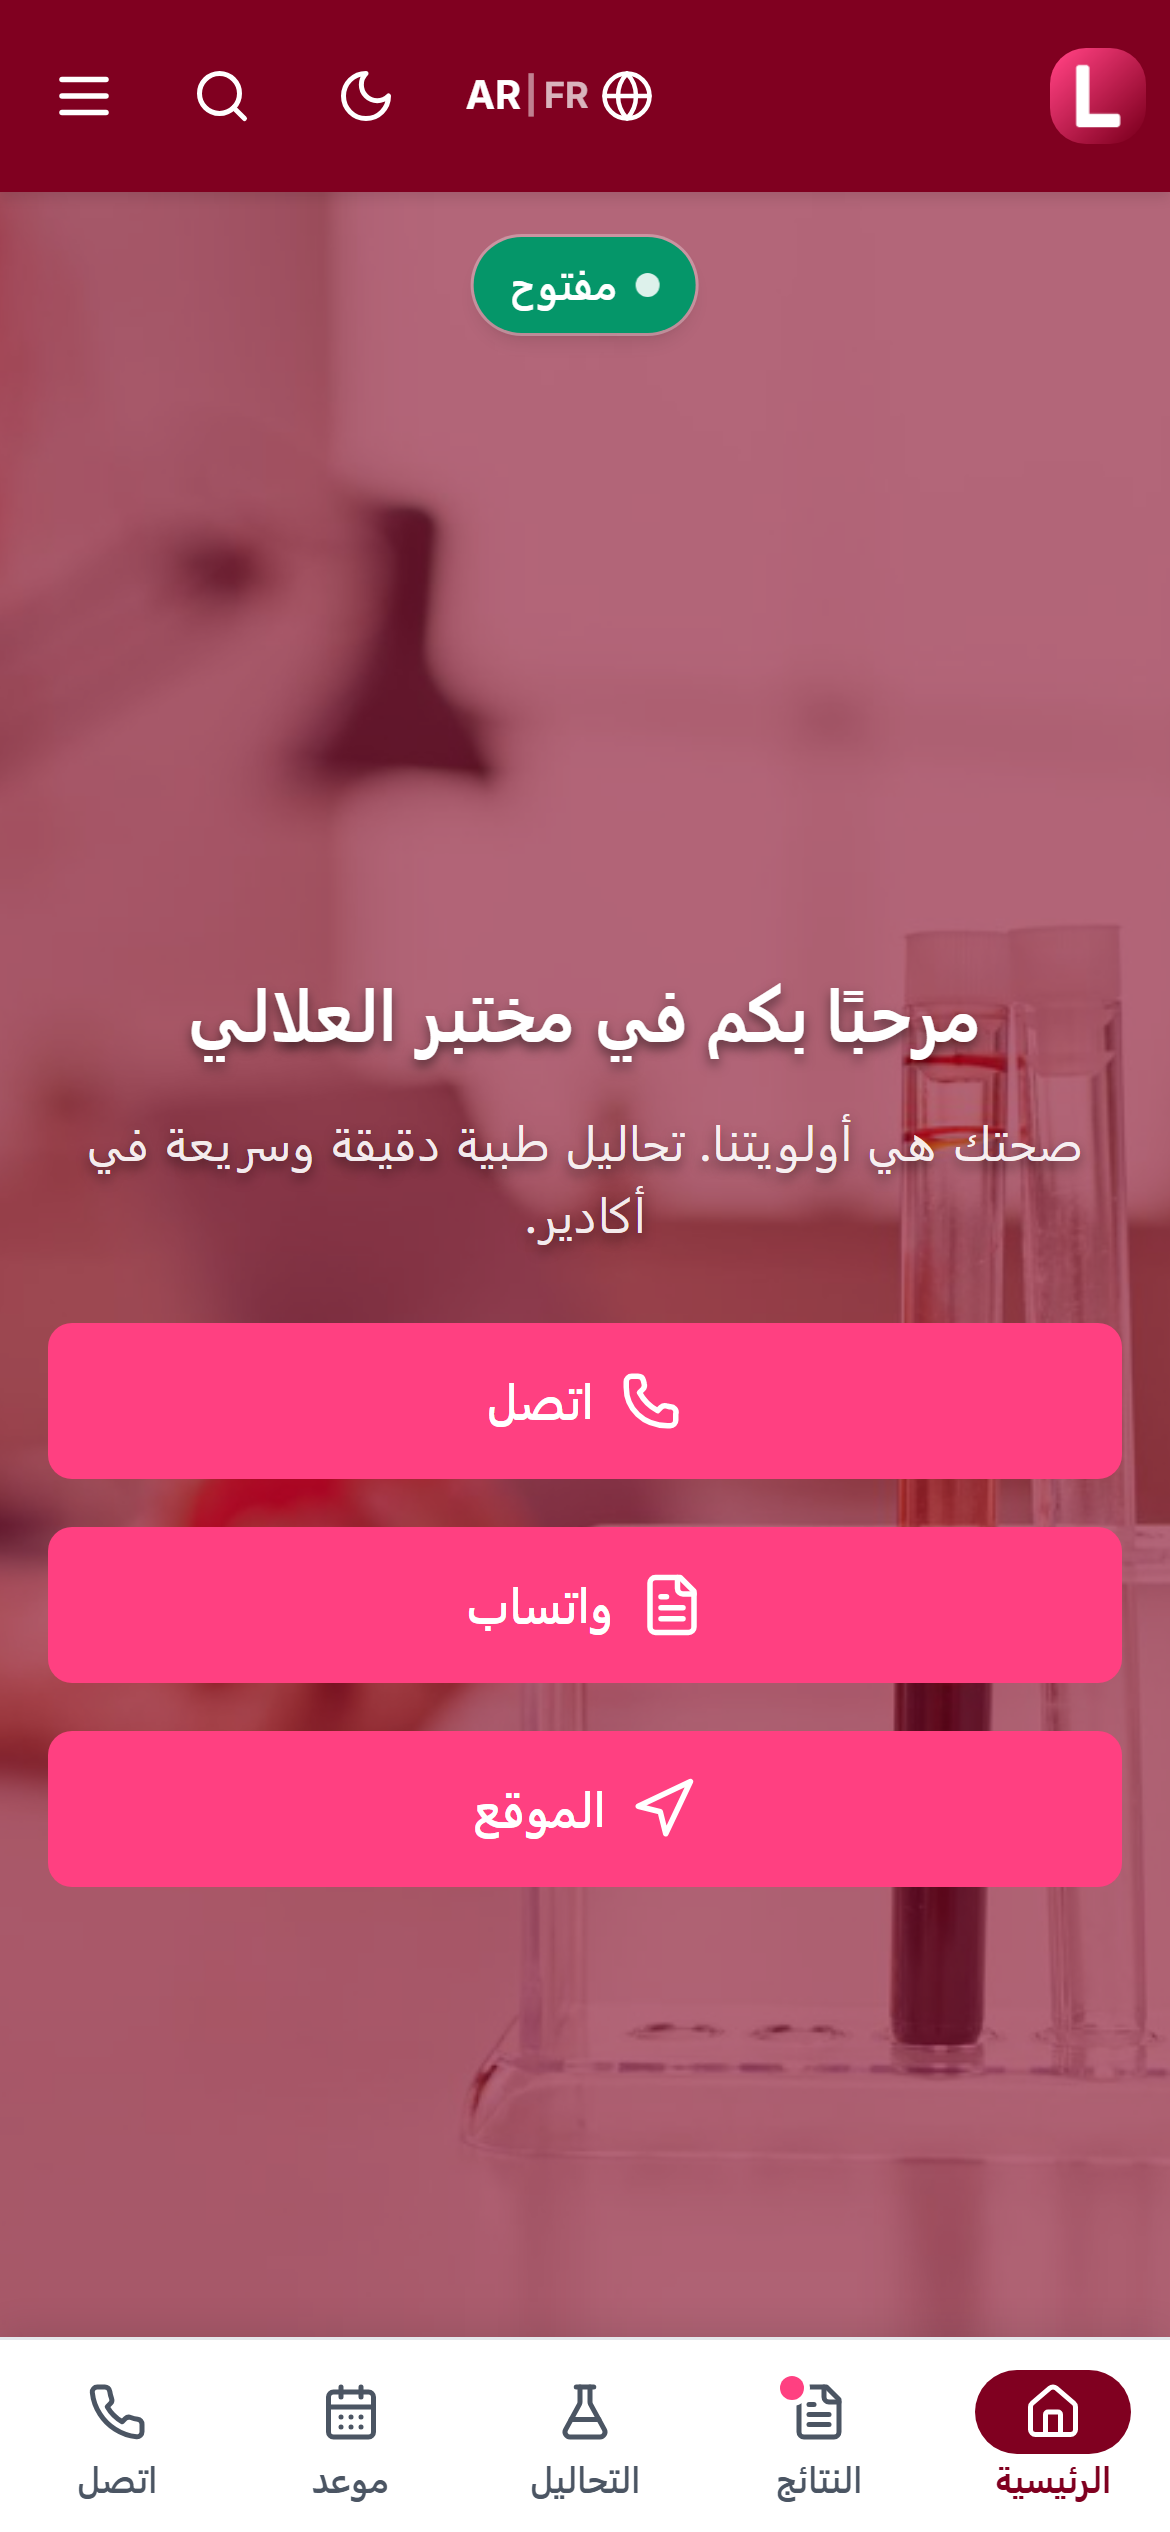
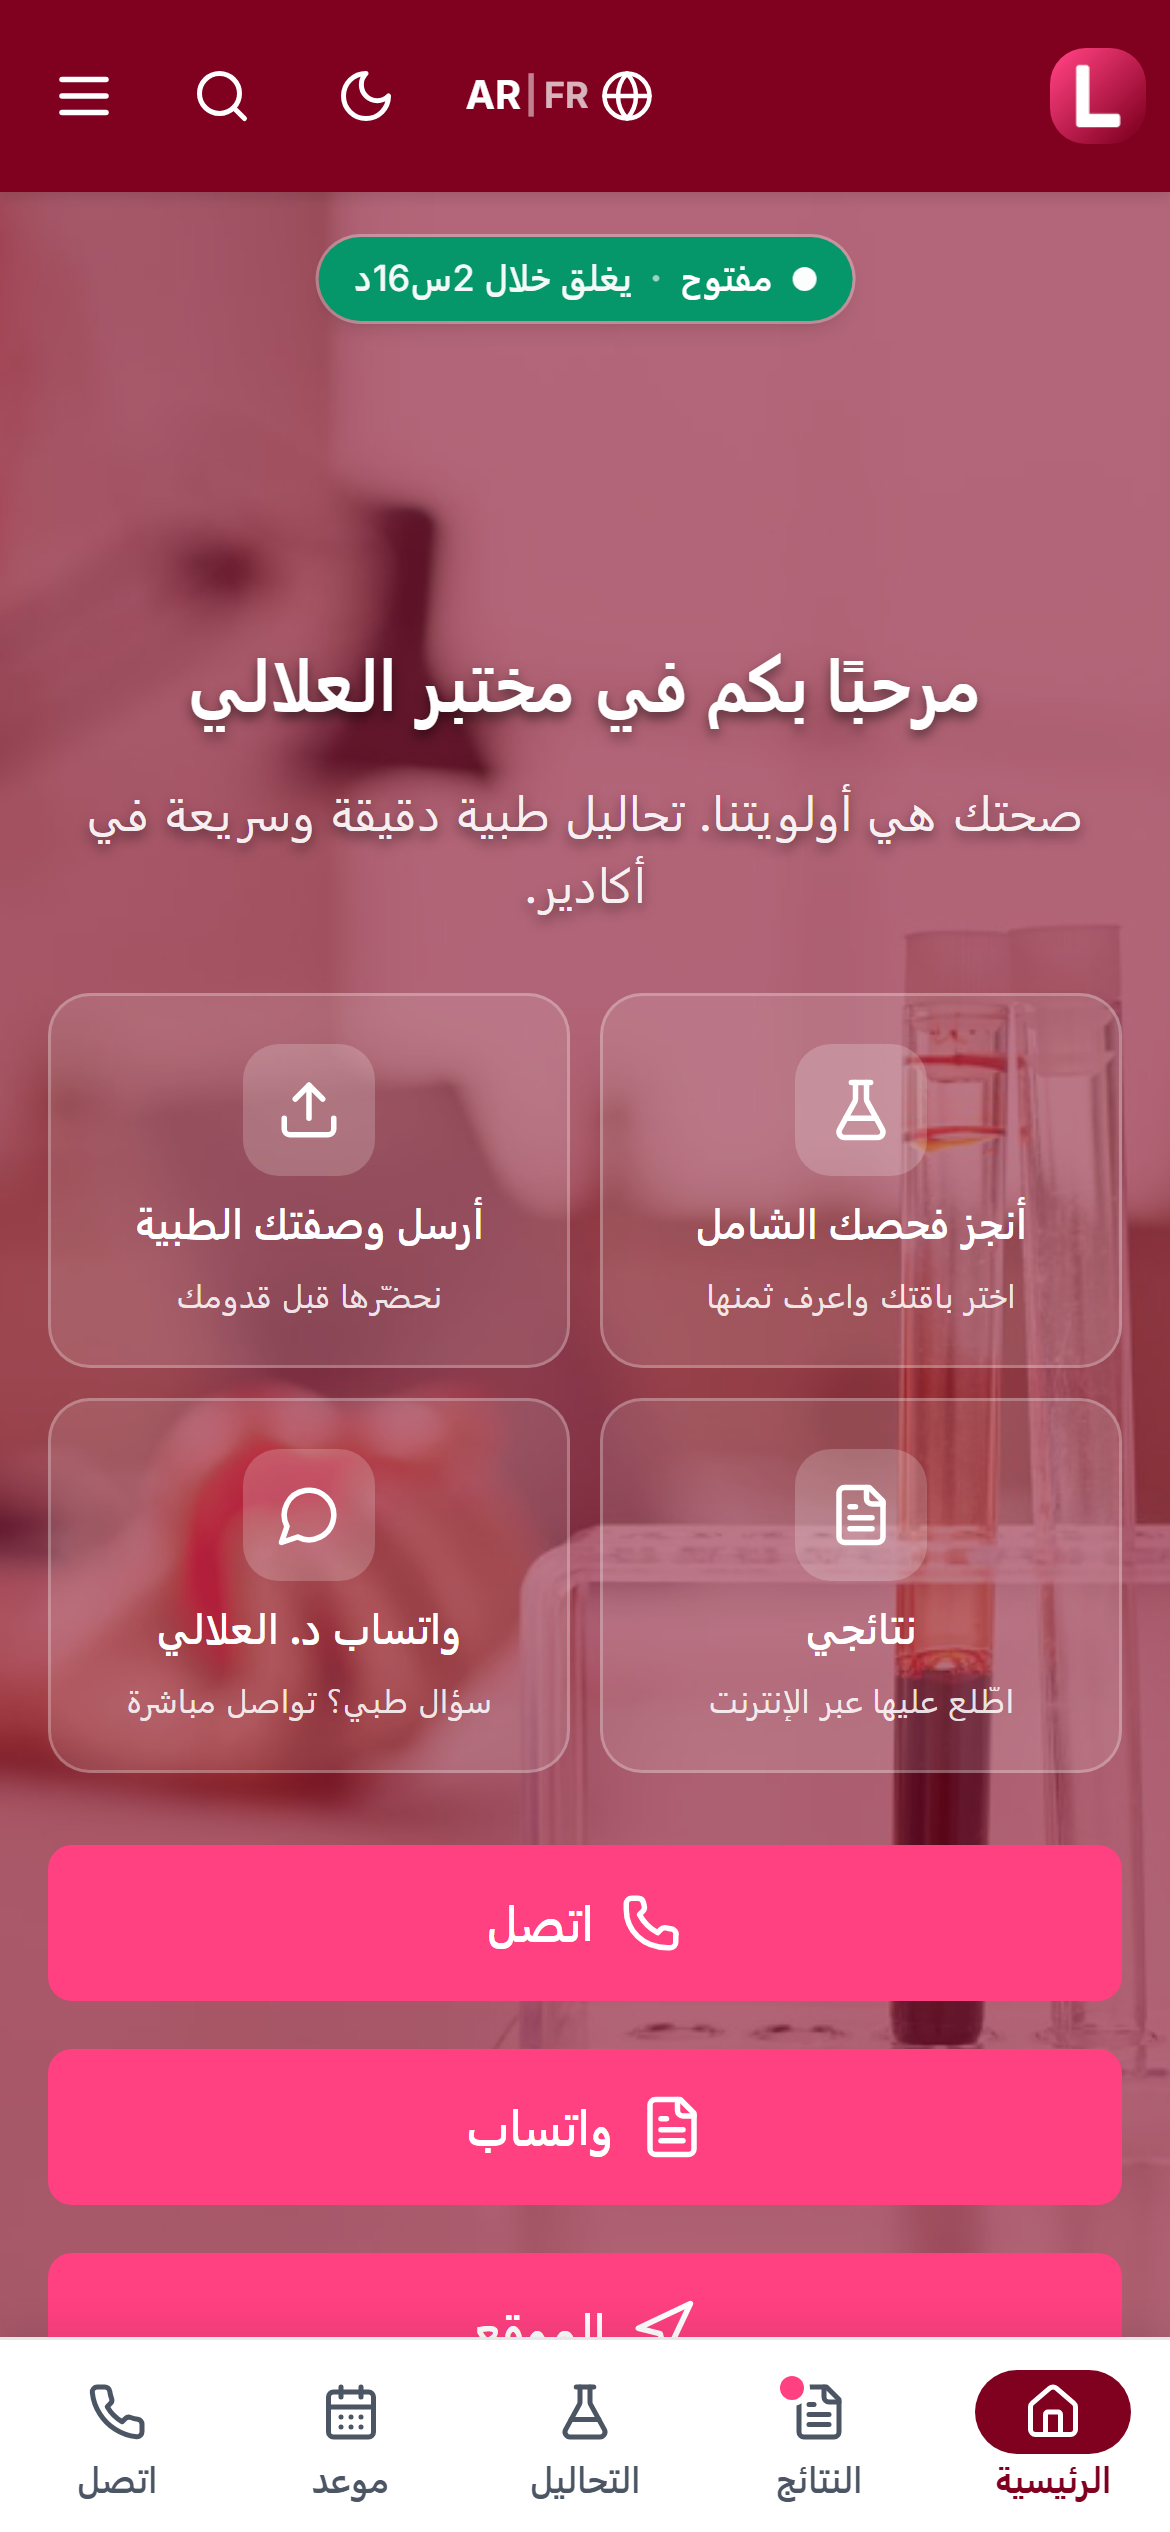
chore(marketing): rafraichir les captures de l'app dans les visuels
L'accueil a change le 26/08 (pastille avec compte a rebours, raccourcis dans
le hero, invite Google) : les captures du 18/08 montraient une app perimee
dans le visuel "Vos resultats sur votre telephone".

- capture-app.js pre-remplit googleSignInPromptDismissedAt et
  iosInstallBannerDismissed dans localStorage, sinon l'invite Google recouvre
  le bas de la capture.
- Captures fr et ar regenerees depuis la production.

diff --git a/marketing/scripts/capture-app.js b/marketing/scripts/capture-app.js
@@ -16,6 +16,16 @@ const OUT = path.resolve(__dirname, "..", "assets", "screenshots");
     isMobile: true,
     hasTouch: true,
   });
+  // Les sollicitations (invite Google, bannière d'installation iOS) se rappellent
+  // d'avoir été fermées via localStorage : on pré-remplit ces clés pour qu'elles
+  // ne recouvrent pas la capture. Voir src/components/features/auth/GoogleSignInPrompt.tsx
+  await page.addInitScript(() => {
+    try {
+      localStorage.setItem("googleSignInPromptDismissedAt", String(Date.now()));
+      localStorage.setItem("iosInstallBannerDismissed", "1");
+    } catch {}
+  });
+
   for (const lang of ["fr", "ar"]) {
     const url = `https://www.laboelallali.com/${lang}`;
     console.log(`Capture ${url} ...`);
